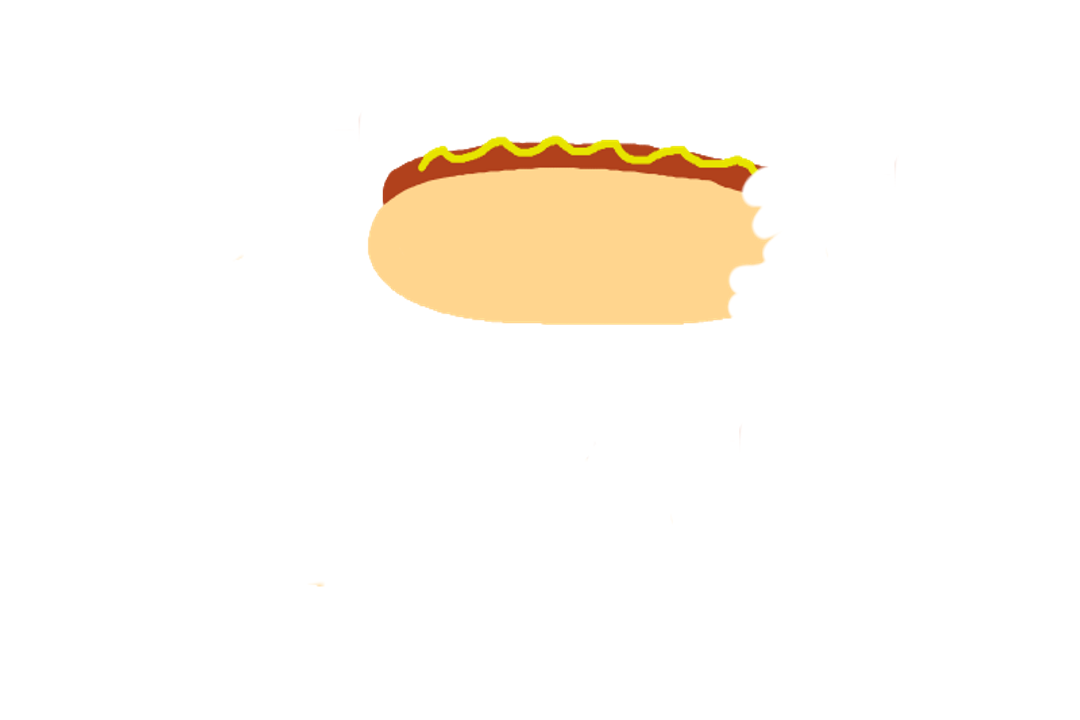
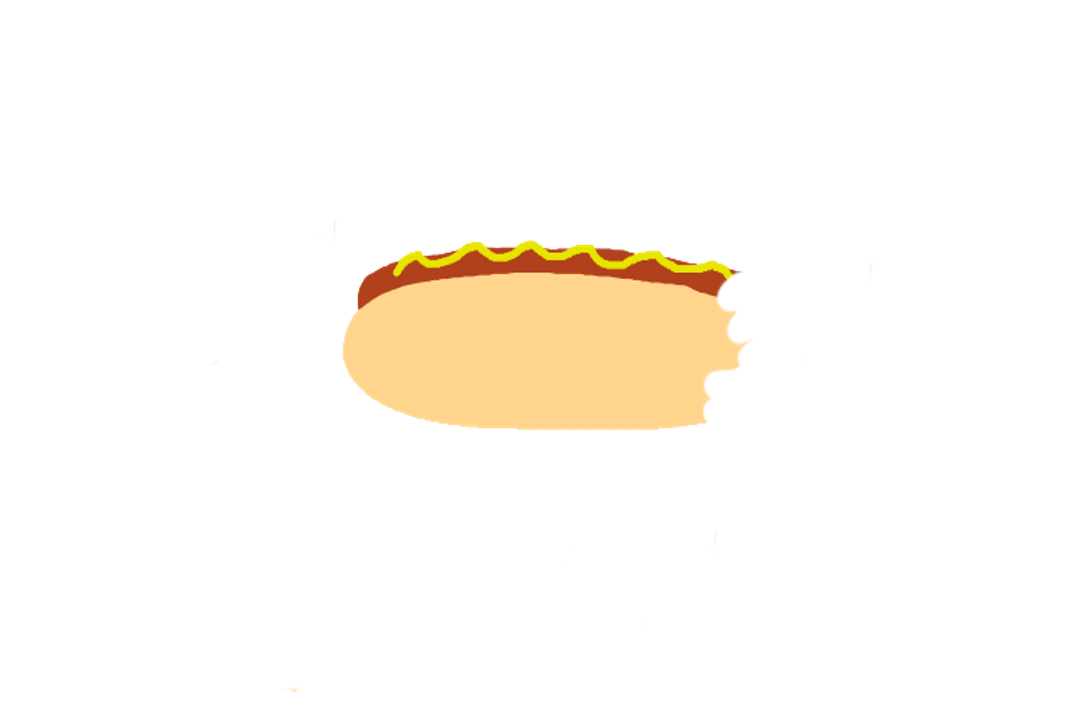
Added Hotdog eating

Changed region(s): [[0.3056, 0.1833, 0.7333, 0.6111]]

diff --git a/Assets/Scripts/DogEatDog/OpponentHotdog.cs b/Assets/Scripts/DogEatDog/OpponentHotdog.cs
@@ -8,10 +8,20 @@ public class OpponentHotdog : MonoBehaviour
     private int currentBites = 0;
     public float speed = 1.5f;
 
+    //Hotdog Images
+    public Sprite fullDog;
+    SpriteRenderer spriteRenderer;
+    public Sprite threeQuarterDog;
+    public Sprite halfDog;
+    public Sprite quarterDog;
+
+
     private void Start()
     {
         maxBites = 4;
-        
+        spriteRenderer = GetComponent<SpriteRenderer>();
+        spriteRenderer.sprite = fullDog;
+
     }
 
     private void Update()
@@ -20,6 +30,7 @@ public class OpponentHotdog : MonoBehaviour
         {
             transform.Translate(Vector2.up * speed * Time.deltaTime);
         }
+        UpdateSprite();
     }
 
 
@@ -46,4 +57,26 @@ public class OpponentHotdog : MonoBehaviour
         currentBites = bites;
     }
 
+    public void UpdateSprite()
+    {
+        float percentEaten = (float)currentBites / (float)maxBites;
+        Debug.Log(percentEaten);
+        if (percentEaten <= .25f)
+        {
+            //set image to 1
+            spriteRenderer.sprite = threeQuarterDog;
+        }
+        else if (percentEaten <= .50f)
+        {
+            //set image to 2
+            spriteRenderer.sprite = halfDog;
+        }
+        else if (percentEaten <= .75f)
+        {
+            //set image to 3
+            spriteRenderer.sprite = quarterDog;
+        }
+
+
+    }
 }
